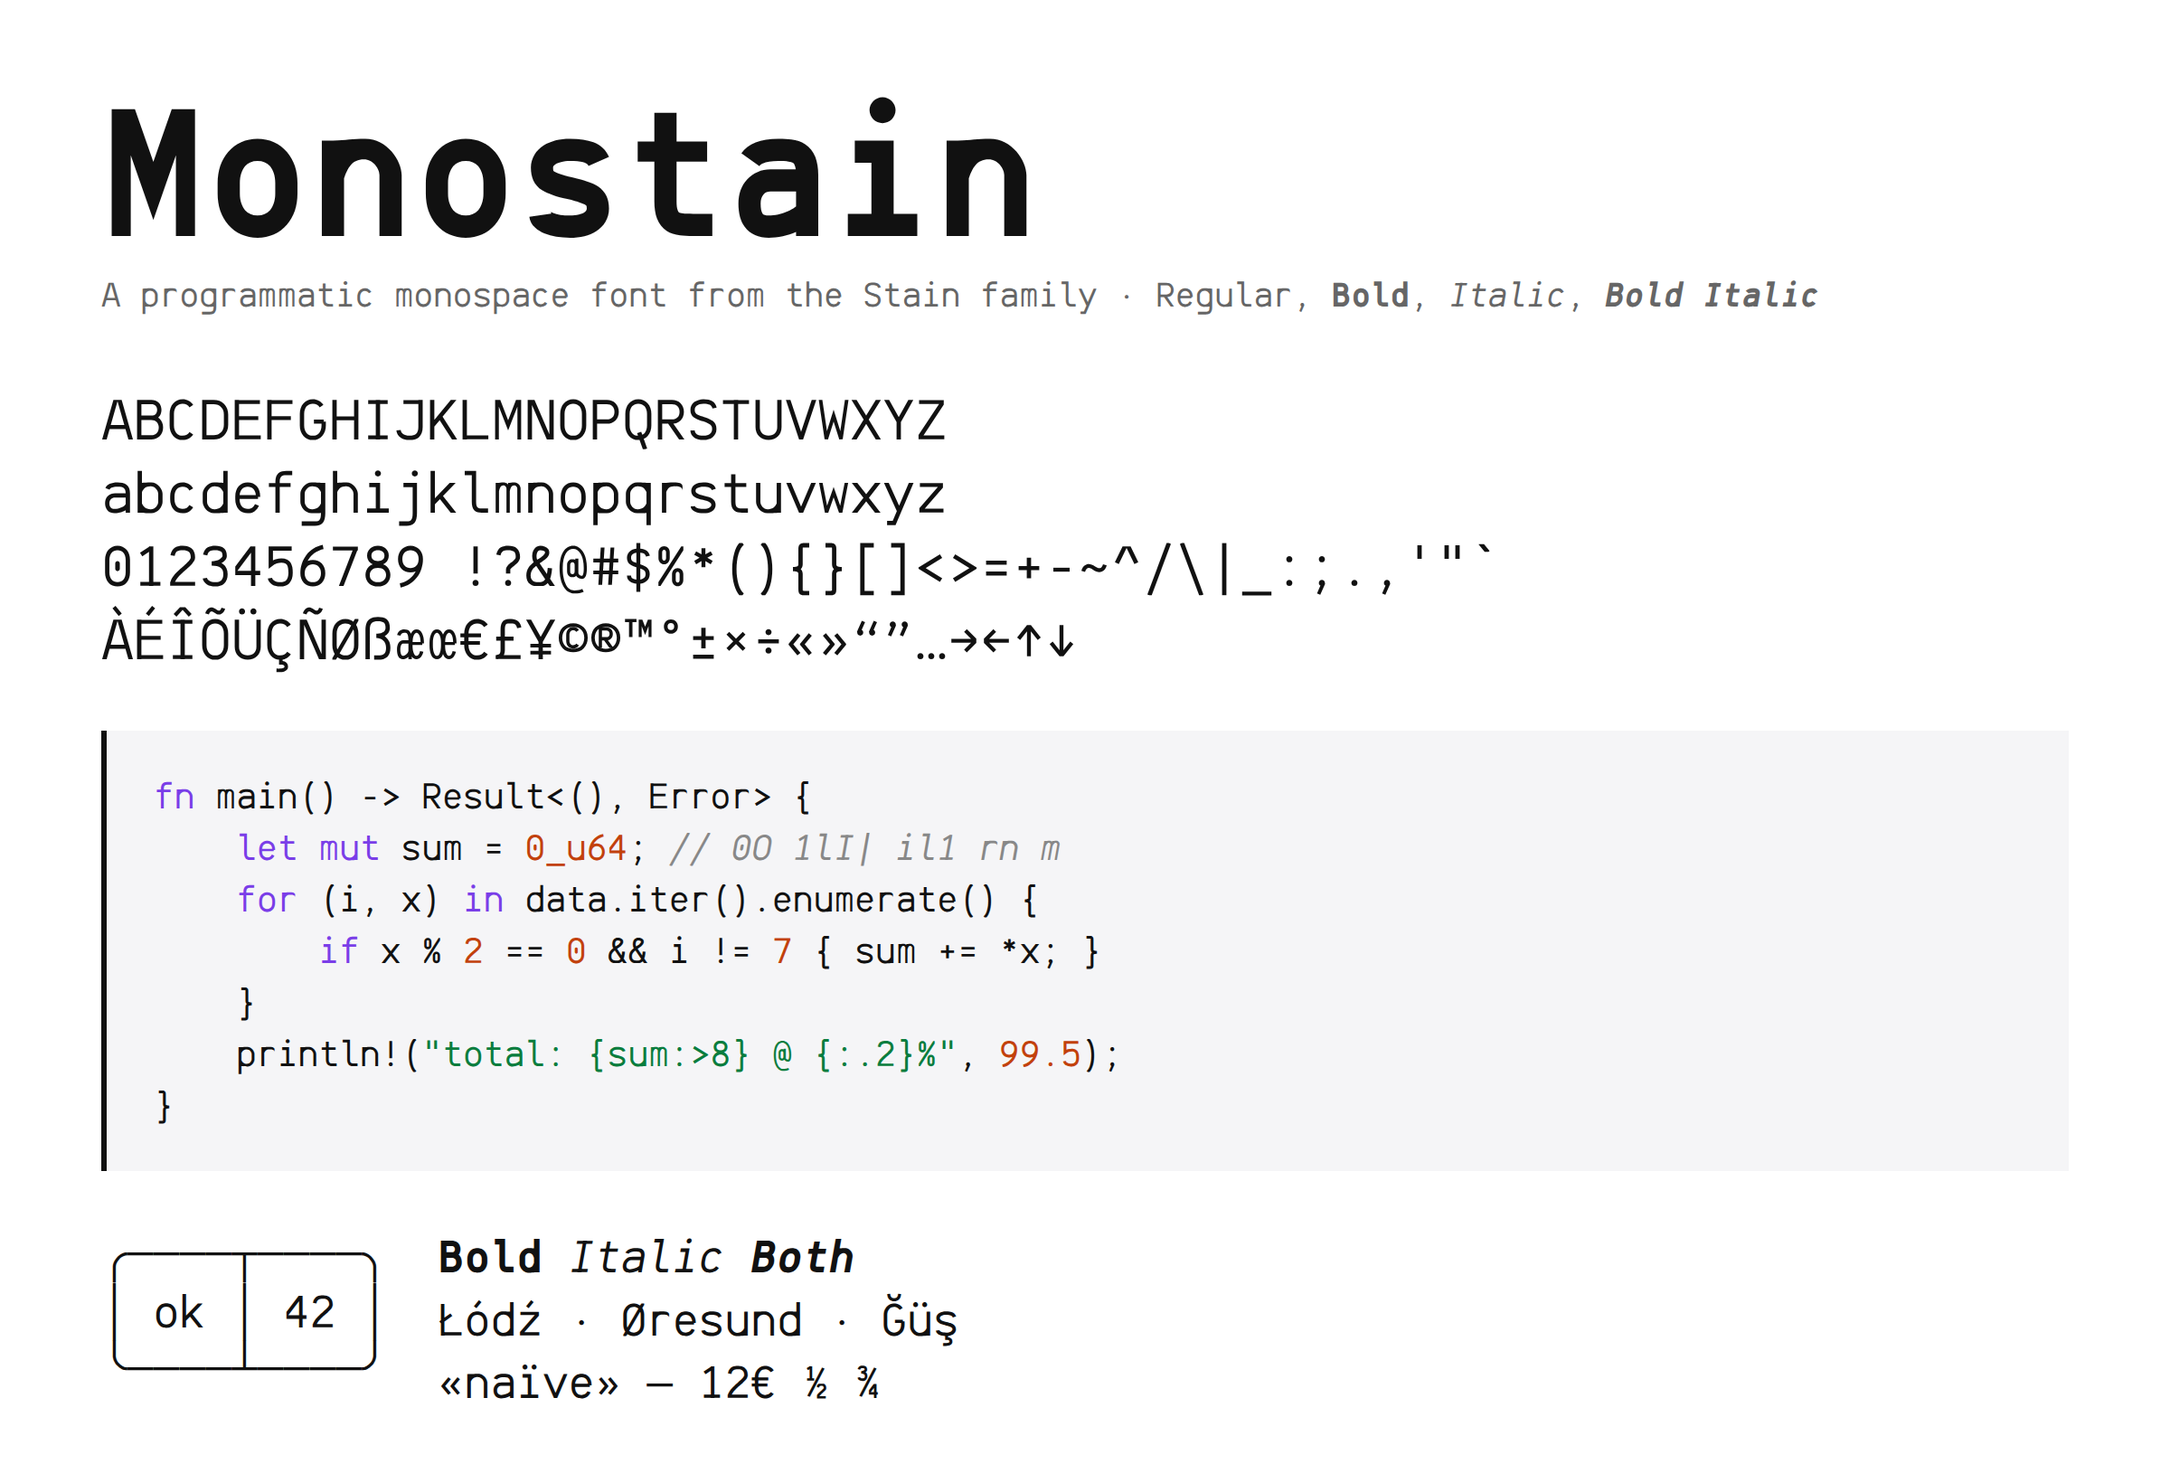
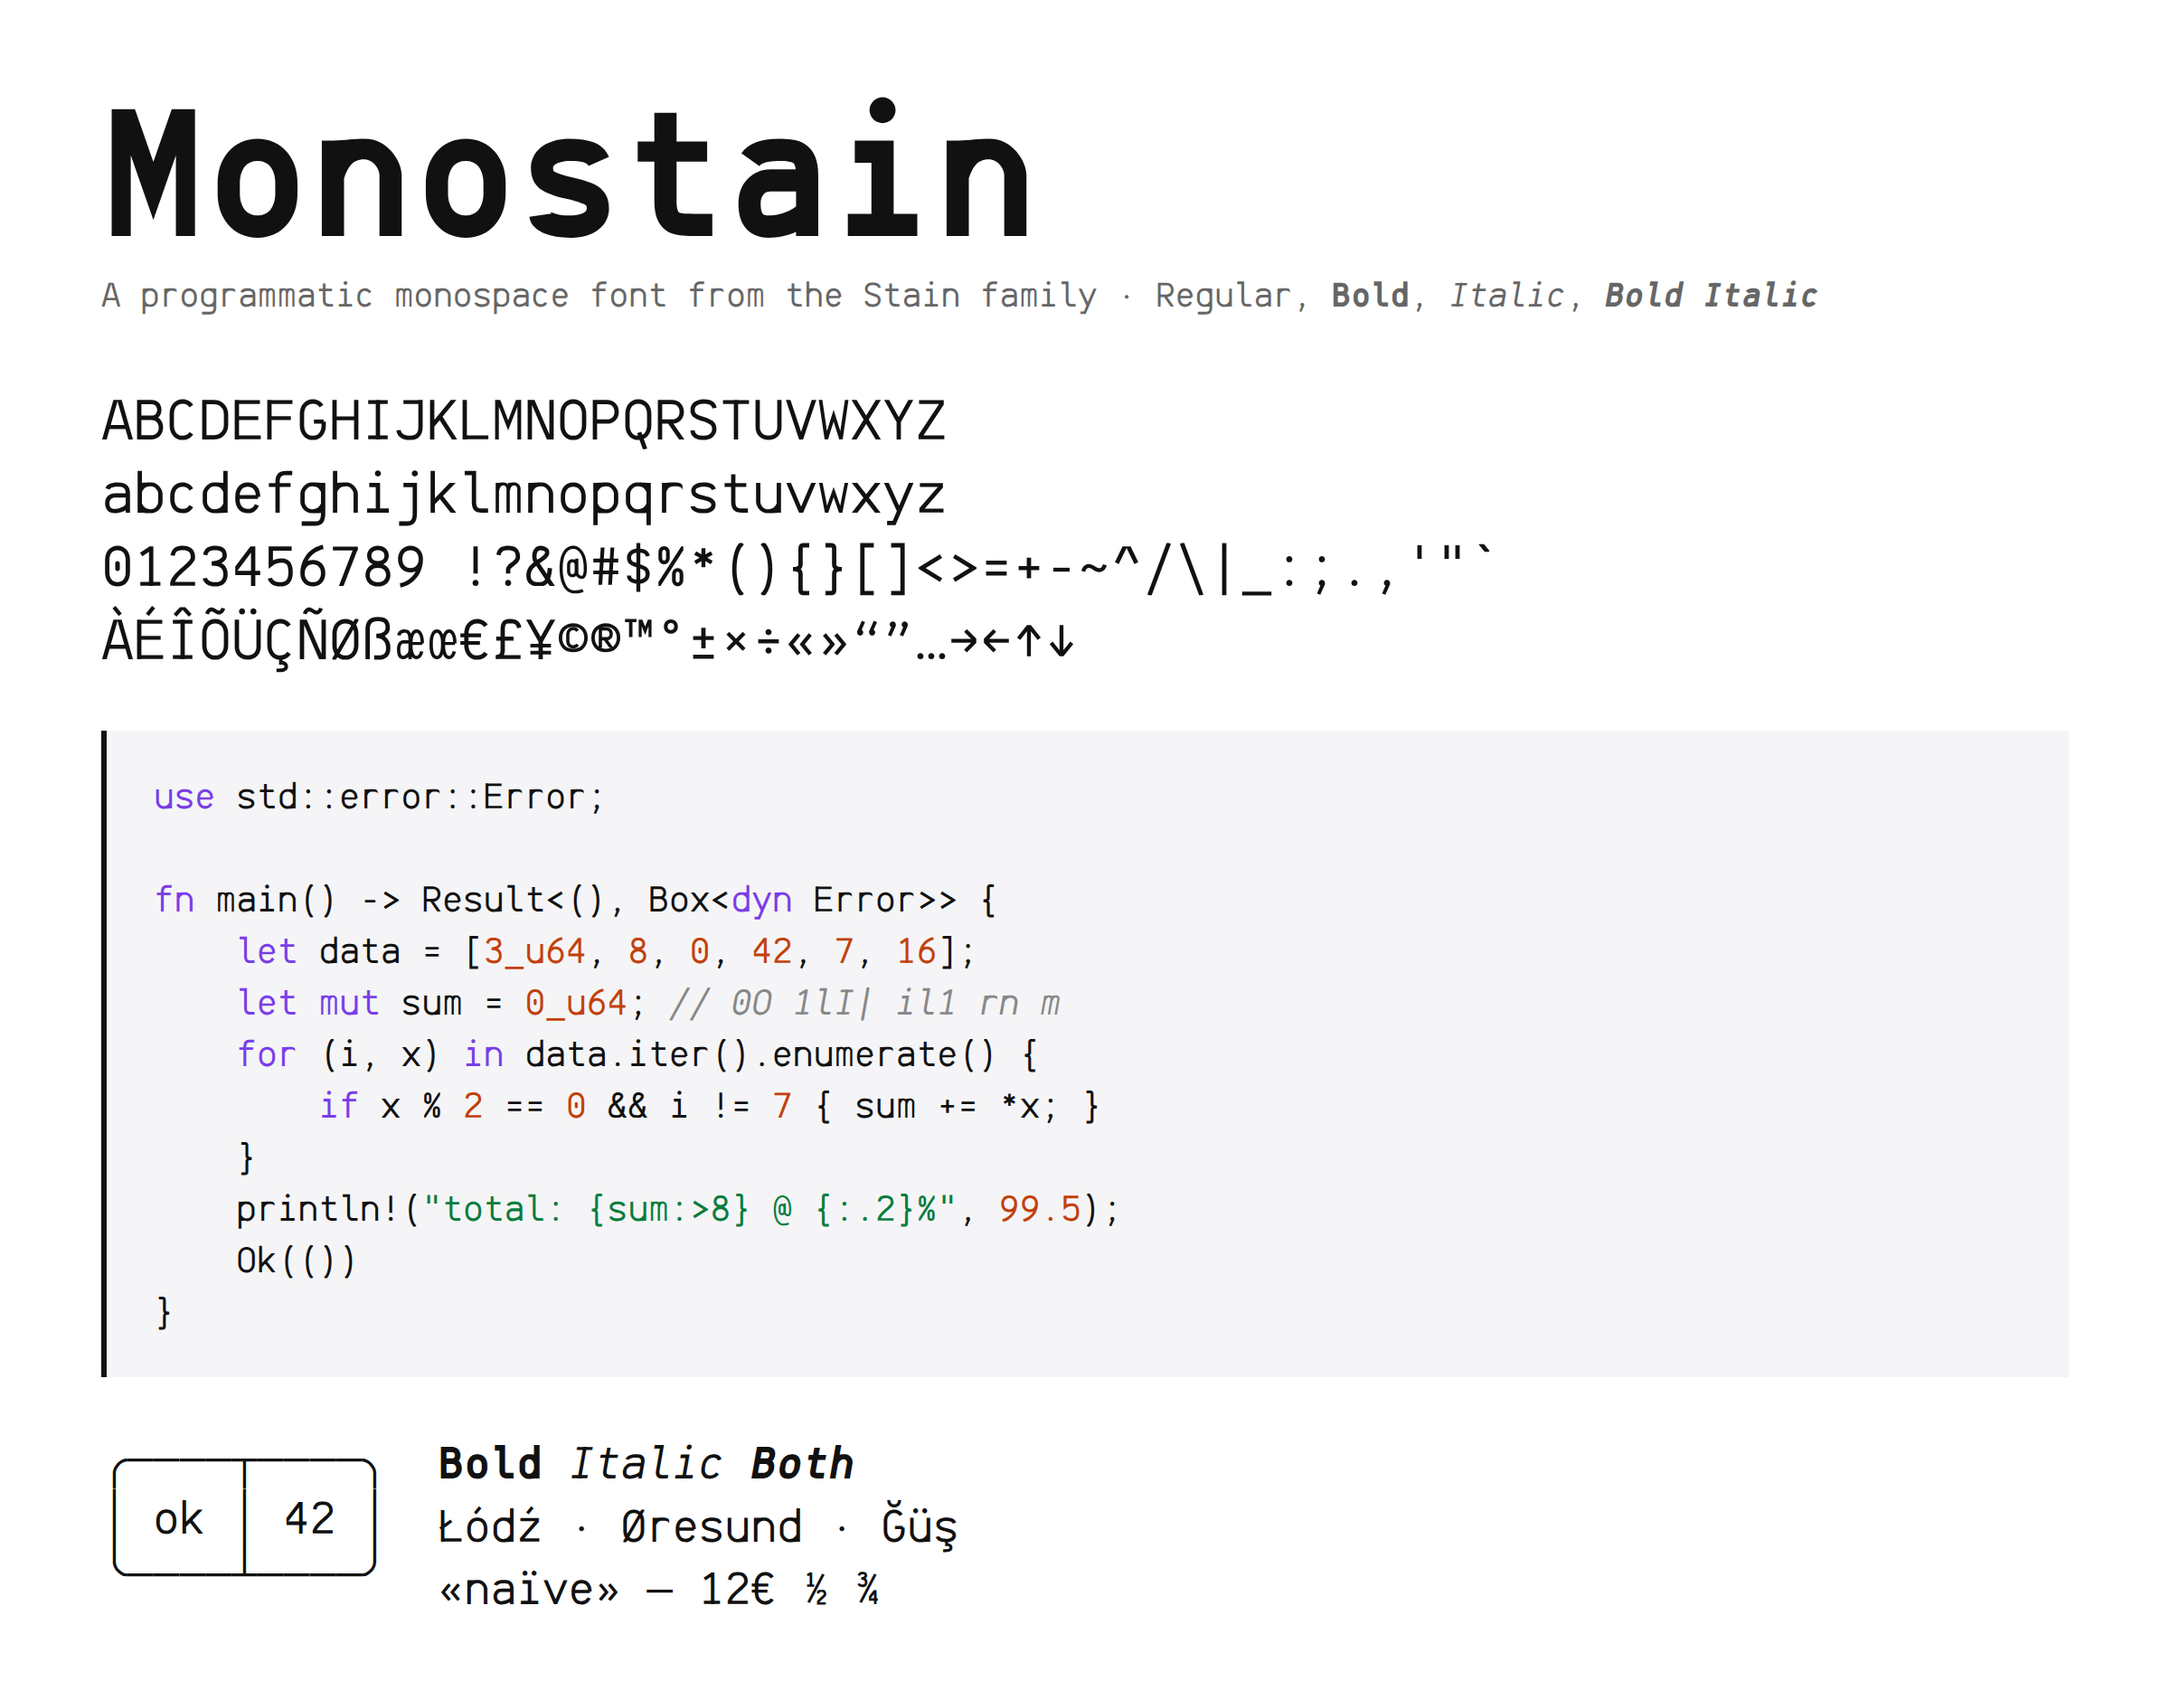
Make the site and specimen code examples real Rust
The In code sample now compiles and runs (checked with rustc -D warnings),
and the Try it text is Rust instead of JavaScript.

diff --git a/index.html b/index.html
@@ -83,12 +83,16 @@ footer{margin-top:80px;padding-top:18px;border-top:1px solid var(--line);color:v
 
 <section>
   <h2>In code</h2>
-<pre><span class="k">fn</span> main() -&gt; Result&lt;(), Error&gt; {
+<pre><span class="k">use</span> std::error::Error;
+
+<span class="k">fn</span> main() -&gt; Result&lt;(), Box&lt;<span class="k">dyn</span> Error&gt;&gt; {
+    <span class="k">let</span> data = [<span class="n">3_u64</span>, <span class="n">8</span>, <span class="n">0</span>, <span class="n">42</span>, <span class="n">7</span>, <span class="n">16</span>];
     <span class="k">let mut</span> sum = <span class="n">0_u64</span>; <span class="c">// every glyph is a centerline stroked by code</span>
     <span class="k">for</span> (i, x) <span class="k">in</span> data.iter().enumerate() {
         <span class="k">if</span> x % <span class="n">2</span> == <span class="n">0</span> &amp;&amp; i != <span class="n">7</span> { sum += *x; }
     }
     println!(<span class="s">"total: {sum:&gt;8} @ {:.2}%"</span>, <span class="n">99.5</span>);
+    Ok(())
 }</pre>
 </section>
 
@@ -123,9 +127,9 @@ code, pre {
     <button data-style="400 normal" aria-pressed="true">Regular</button><button data-style="700 normal" aria-pressed="false">Bold</button><button data-style="400 italic" aria-pressed="false">Italic</button><button data-style="700 italic" aria-pressed="false">Bold Italic</button>
     <label>Size <input id="size" type="range" min="12" max="96" value="22"> <span id="sizev">22px</span></label>
   </div>
-  <textarea id="tester" spellcheck="false" aria-label="Type to try Monostain">const greet = (name = "world") =&gt; `hi, ${name}!`;
-if (a !== b &amp;&amp; x &lt;= 10 || y &gt;= 0) return [0, 1, 2];
-// 0O 1lI| rn m  {}[]()  @#$%^&amp;*  -&gt; =&gt; ==
+  <textarea id="tester" spellcheck="false" aria-label="Type to try Monostain">let greet = |name: &amp;str| format!("hi, {name}!");
+if a != b &amp;&amp; x &lt;= 10 || y &gt;= 0 { return vec![0, 1, 2]; }
+// 0O 1lI| rn m  {}[]()  @#$%^&amp;*  -&gt; =&gt; ::
 The quick brown fox jumps over the lazy dog.
 Ça fait déjà 12€ — «naïve» Øresund, Łódź, Ğüş!</textarea>
 </section>

diff --git a/docs/specimen.html b/docs/specimen.html
@@ -19,12 +19,16 @@ pre{font:inherit;font-size:19px;line-height:1.5;margin:0;padding:22px 26px;backg
 <h1>Monostain</h1>
 <p class="sub">A programmatic monospace font from the Stain family · Regular, <b>Bold</b>, <i>Italic</i>, <b><i>Bold Italic</i></b></p>
 <div class="set">ABCDEFGHIJKLMNOPQRSTUVWXYZ<br>abcdefghijklmnopqrstuvwxyz<br>0123456789 !?&amp;@#$%*(){}[]&lt;&gt;=+-~^/\|_:;.,'"`<br>ÀÉÎÕÜÇÑØßæœ€£¥©®™°±×÷«»“”…→←↑↓</div>
-<pre><span class="k">fn</span> main() -&gt; Result&lt;(), Error&gt; {
+<pre><span class="k">use</span> std::error::Error;
+
+<span class="k">fn</span> main() -&gt; Result&lt;(), Box&lt;<span class="k">dyn</span> Error&gt;&gt; {
+    <span class="k">let</span> data = [<span class="n">3_u64</span>, <span class="n">8</span>, <span class="n">0</span>, <span class="n">42</span>, <span class="n">7</span>, <span class="n">16</span>];
     <span class="k">let mut</span> sum = <span class="n">0_u64</span>; <span class="c">// 0O 1lI| il1 rn m</span>
     <span class="k">for</span> (i, x) <span class="k">in</span> data.iter().enumerate() {
         <span class="k">if</span> x % <span class="n">2</span> == <span class="n">0</span> &amp;&amp; i != <span class="n">7</span> { sum += *x; }
     }
     println!(<span class="s">"total: {sum:&gt;8} @ {:.2}%"</span>, <span class="n">99.5</span>);
+    Ok(())
 }</pre>
 <div class="row"><span class="box">╭────┬────╮<br>│ ok │ 42 │<br>╰────┴────╯</span><span><b>Bold</b> <i>Italic</i> <b><i>Both</i></b><br>Łódź · Øresund · Ğüş<br>«naïve» — 12€ ½ ¾</span></div>
 </html>
